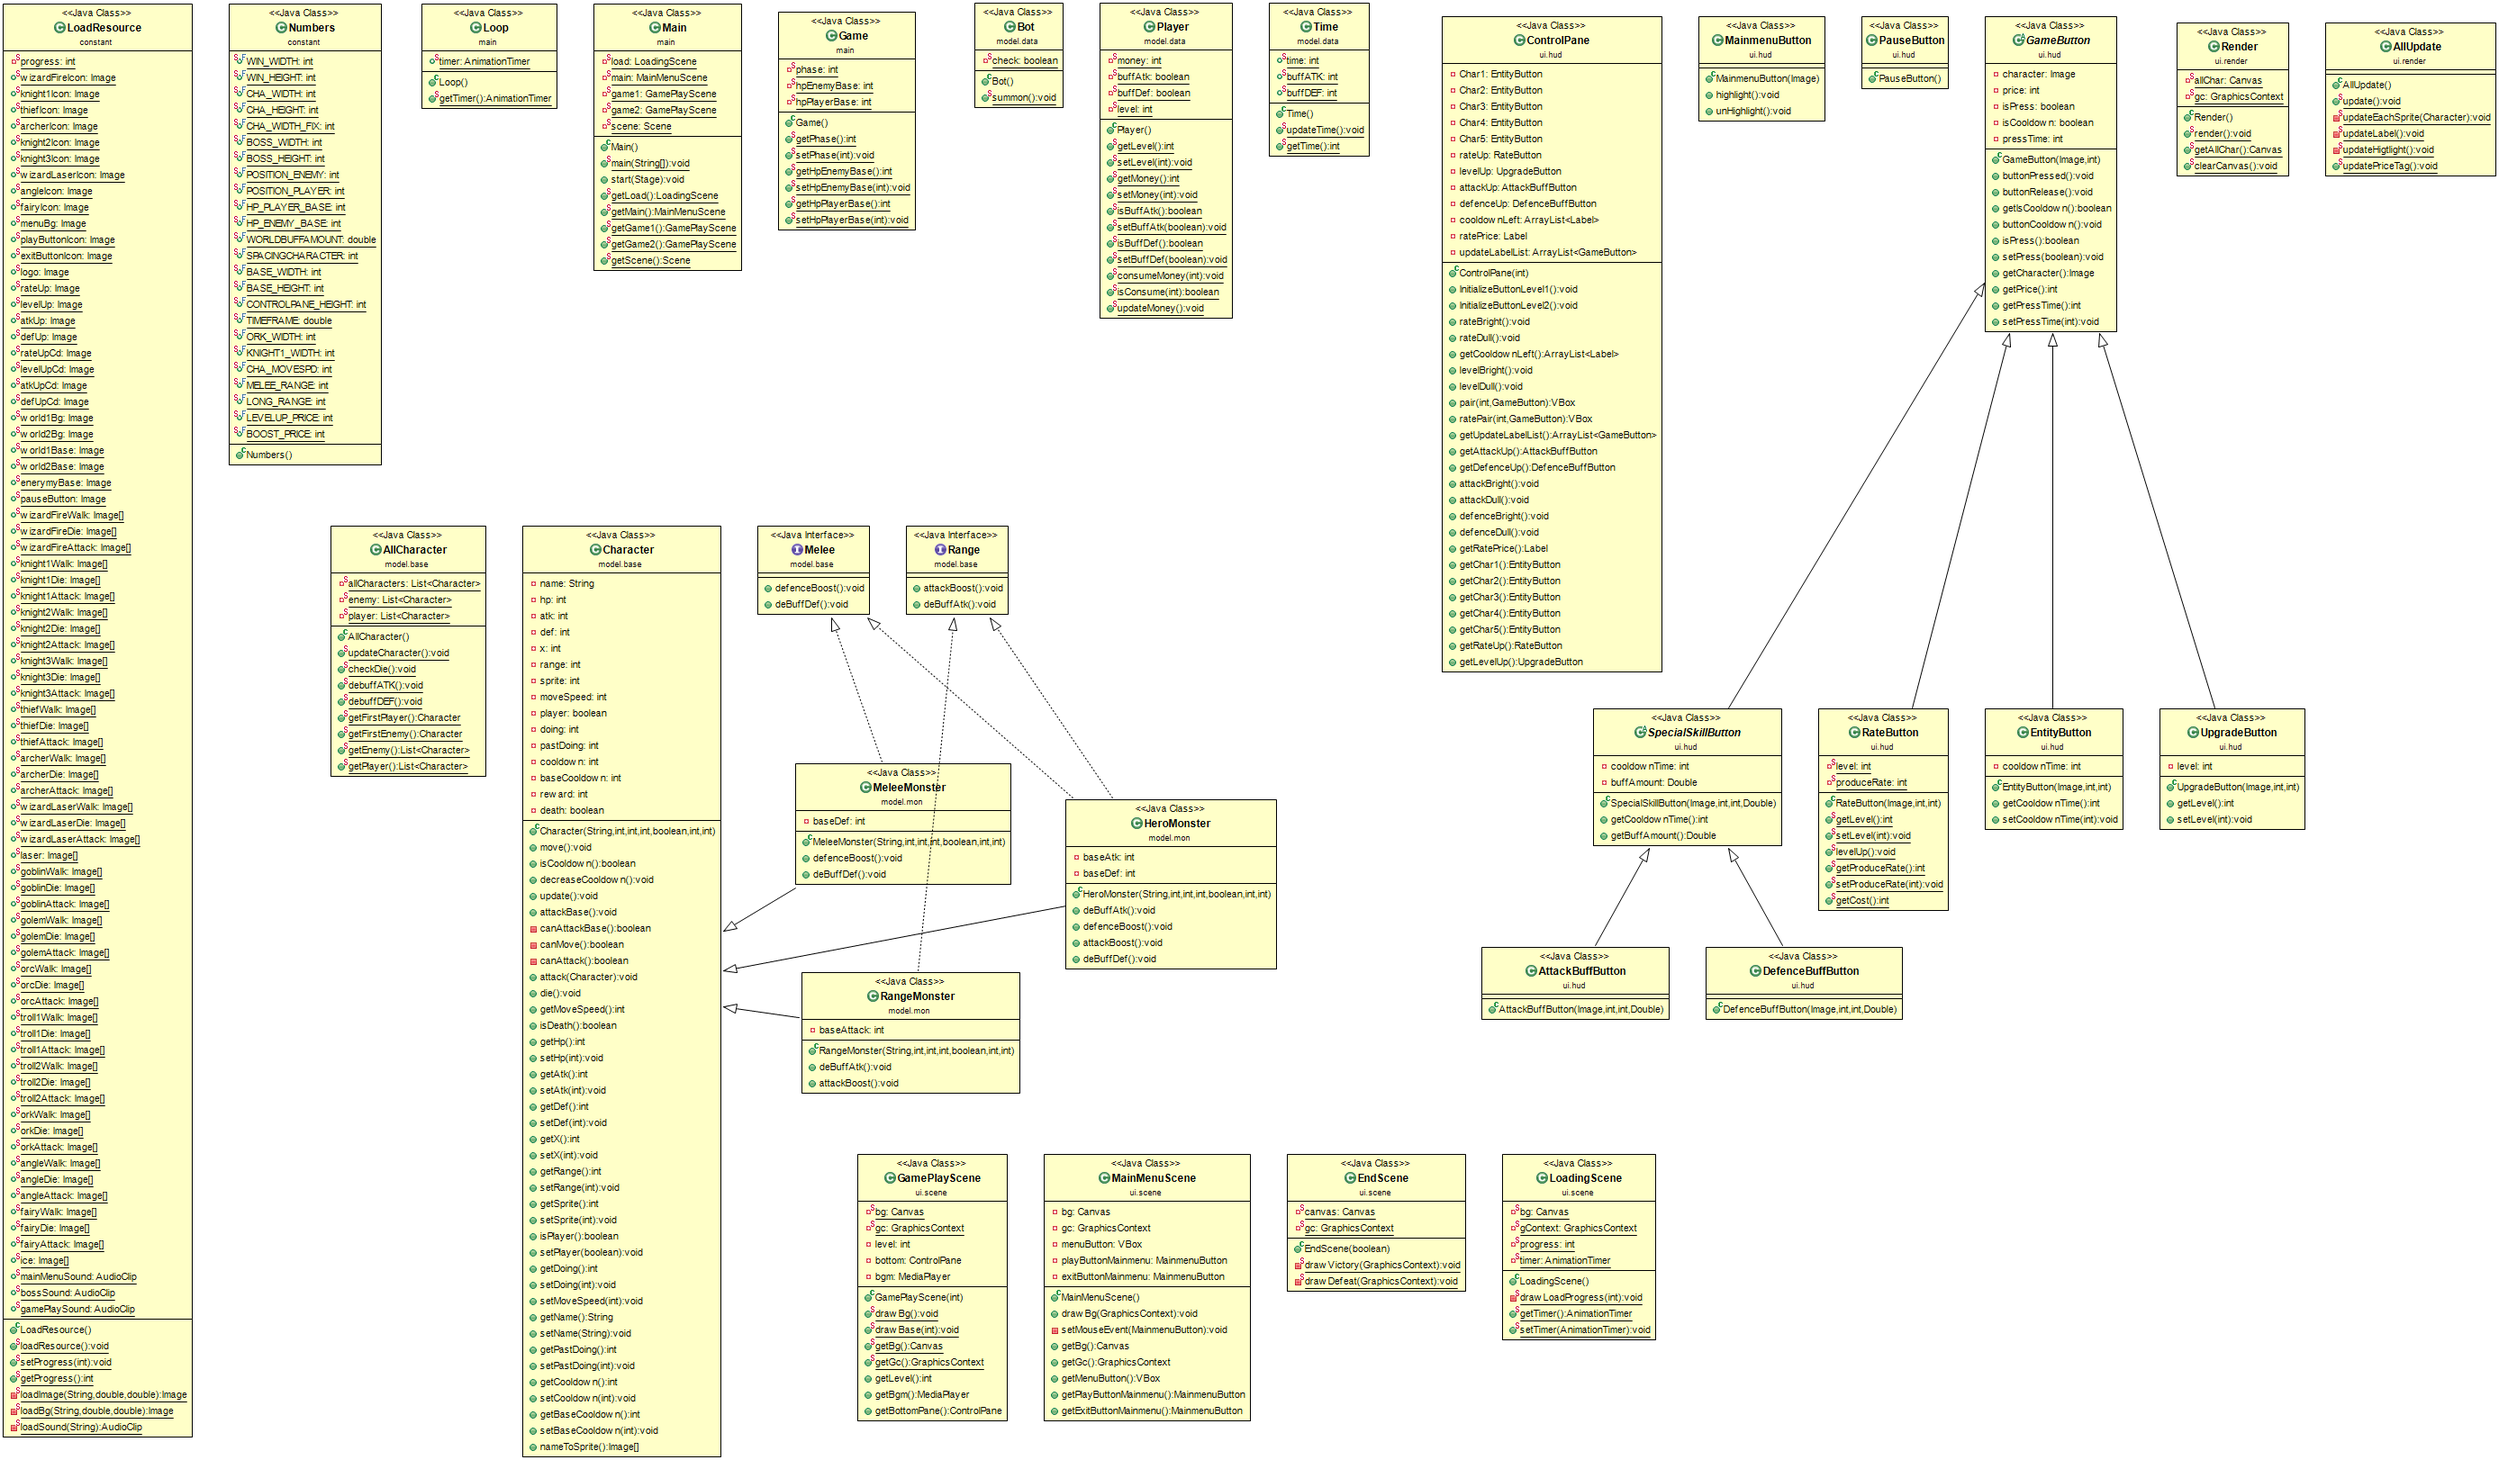
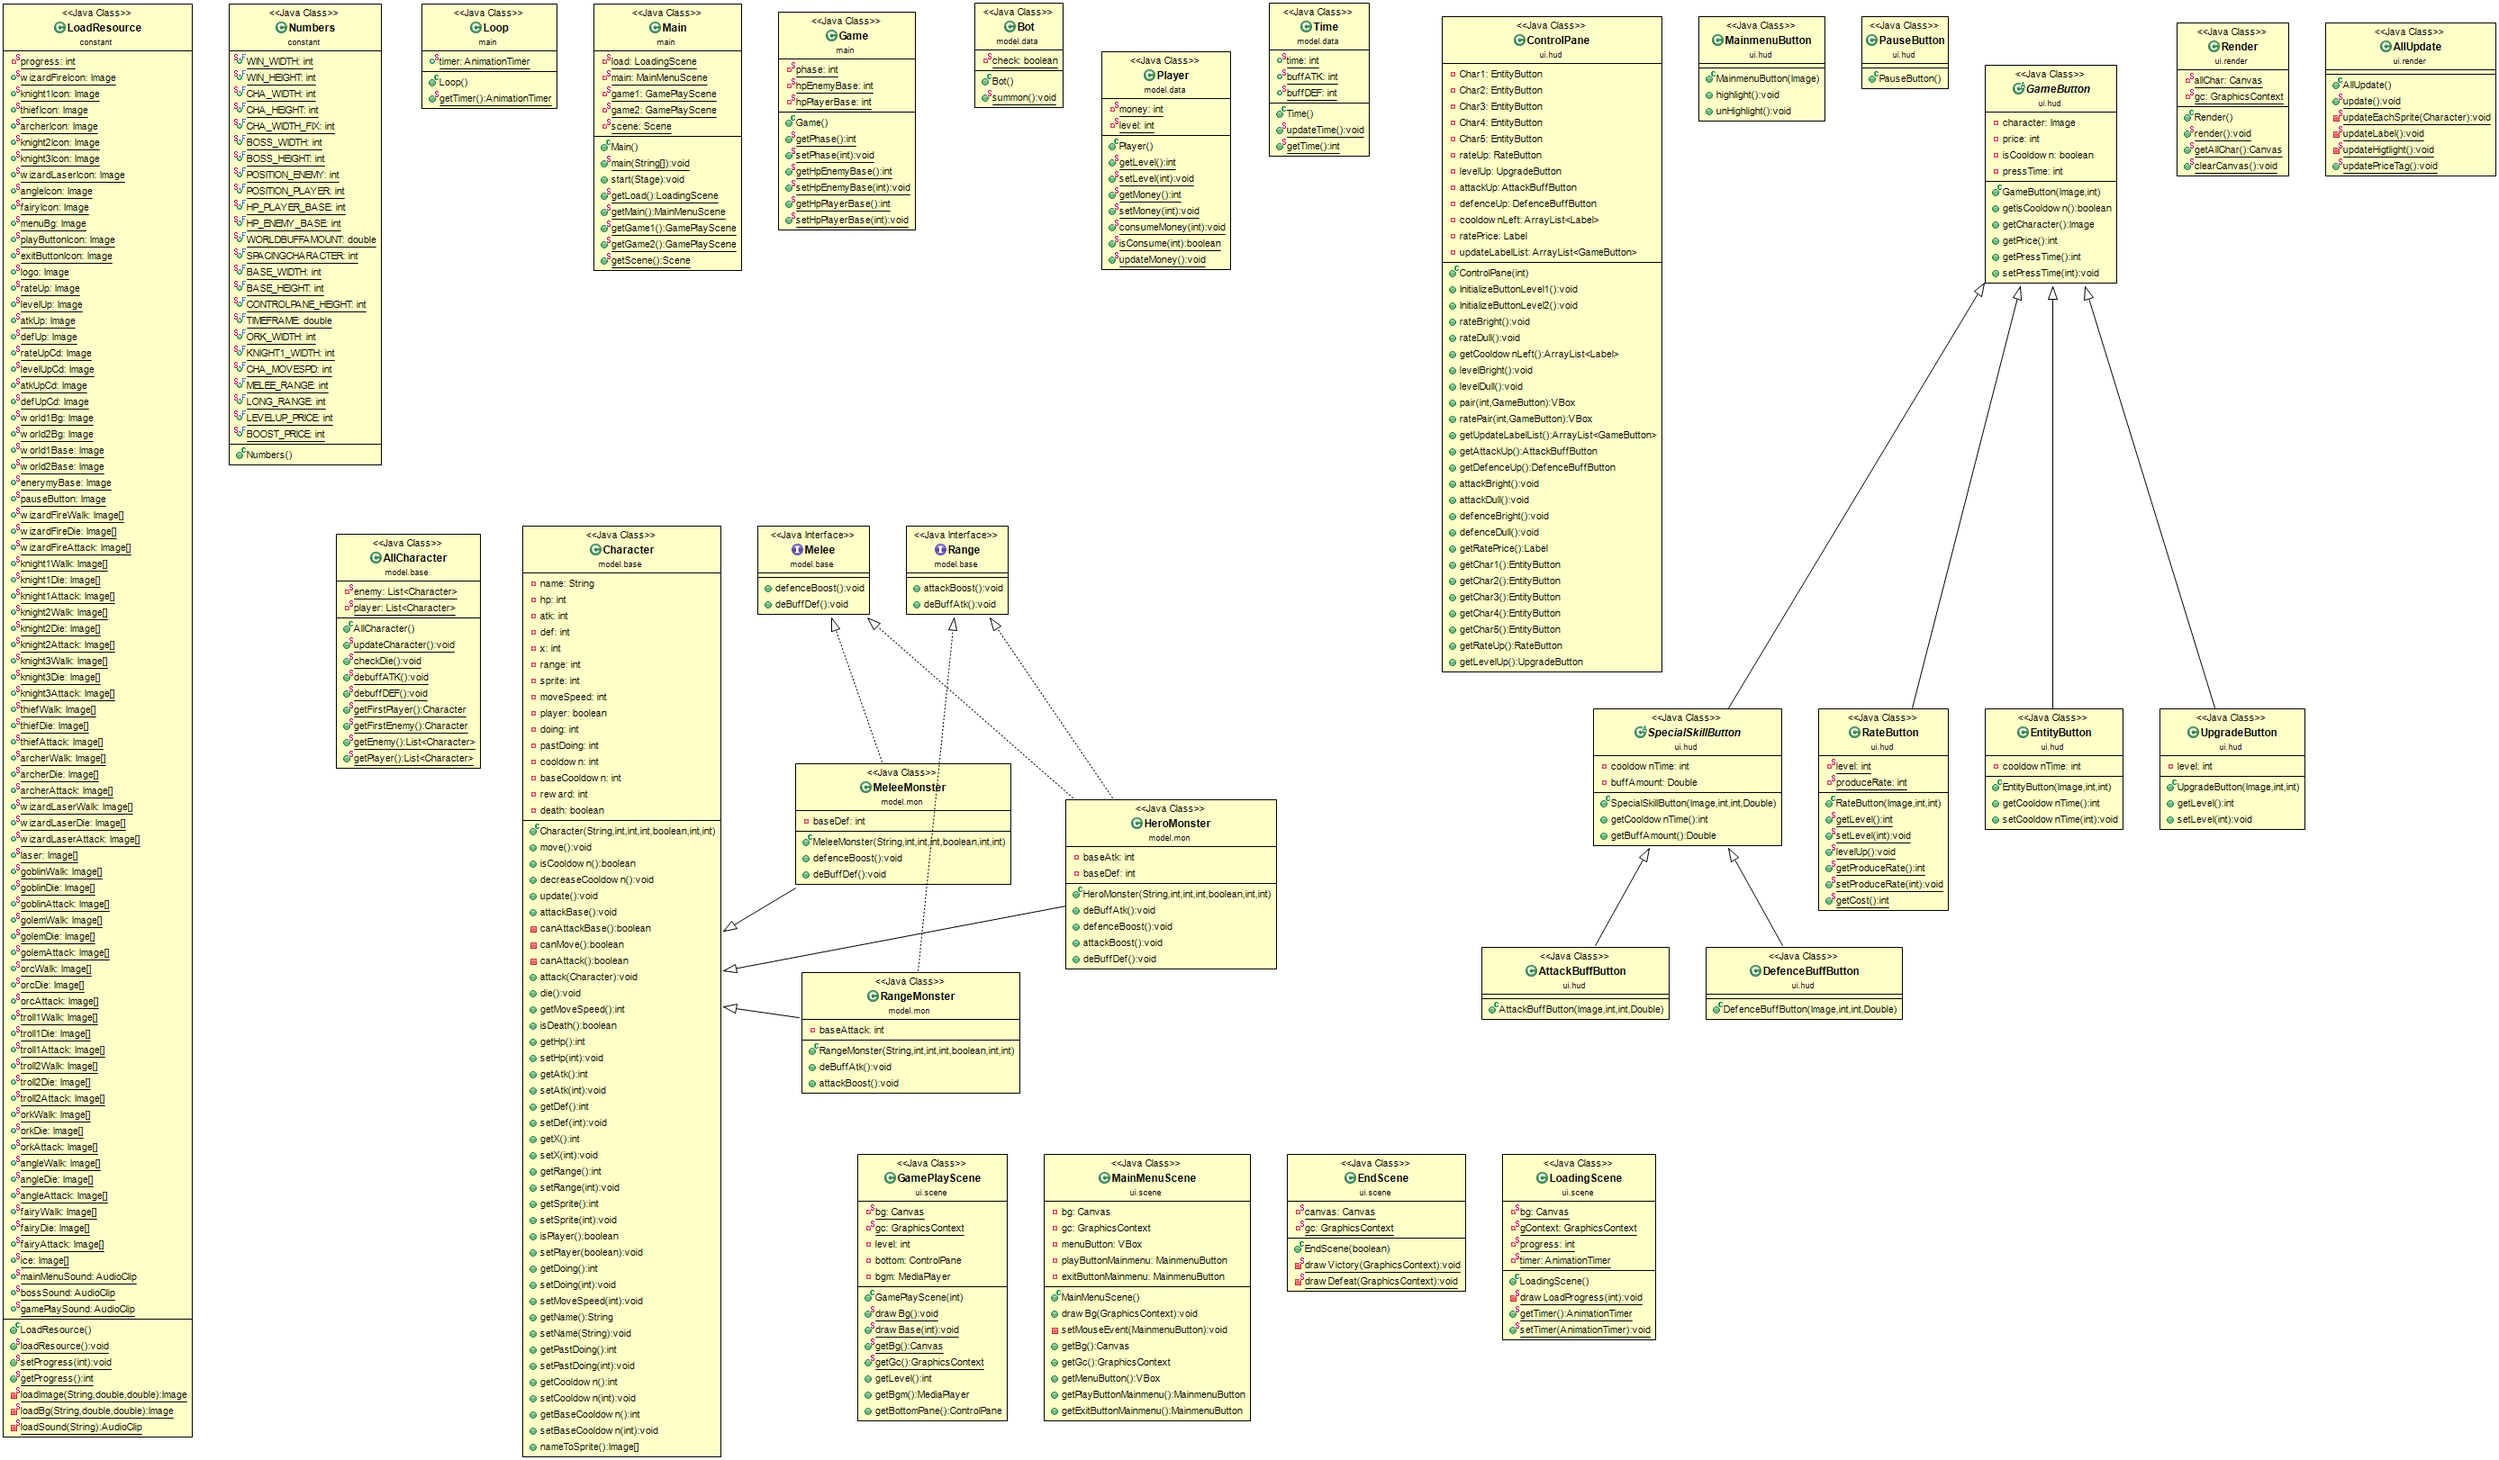
fix merge

Changed region(s): [[0.7748, 0.0, 0.8677, 0.2466], [0.124, 0.3391, 0.2169, 0.5549], [0.4339, 0.0, 0.4959, 0.2158]]

diff --git a/src/model/data/Player.java b/src/model/data/Player.java
@@ -4,8 +4,6 @@ import ui.hud.RateButton;
 
 public class Player {
 	private static int money = 5000;
-	private static boolean buffAtk;
-	private static boolean buffDef;
 	private static int level = 1;
 
 	public static int getLevel() {
@@ -22,22 +20,6 @@ public class Player {
 
 	public static void setMoney(int money) {
 		Player.money = money;
-	}
-
-	public static boolean isBuffAtk() {
-		return buffAtk;
-	}
-
-	public static void setBuffAtk(boolean buffAtk) {
-		Player.buffAtk = buffAtk;
-	}
-
-	public static boolean isBuffDef() {
-		return buffDef;
-	}
-
-	public static void setBuffDef(boolean buffDef) {
-		Player.buffDef = buffDef;
 	}
 
 	public static void consumeMoney(int money) {

diff --git a/src/model/base/AllCharacter.java b/src/model/base/AllCharacter.java
@@ -9,7 +9,6 @@ import model.mon.MeleeMonster;
 import model.mon.RangeMonster;
 
 public class AllCharacter {
-	private static List<Character> allCharacters = new ArrayList<Character>();
 	private static List<Character> enemy = new ArrayList<Character>();
 	private static List<Character> player = new ArrayList<Character>();
 	
